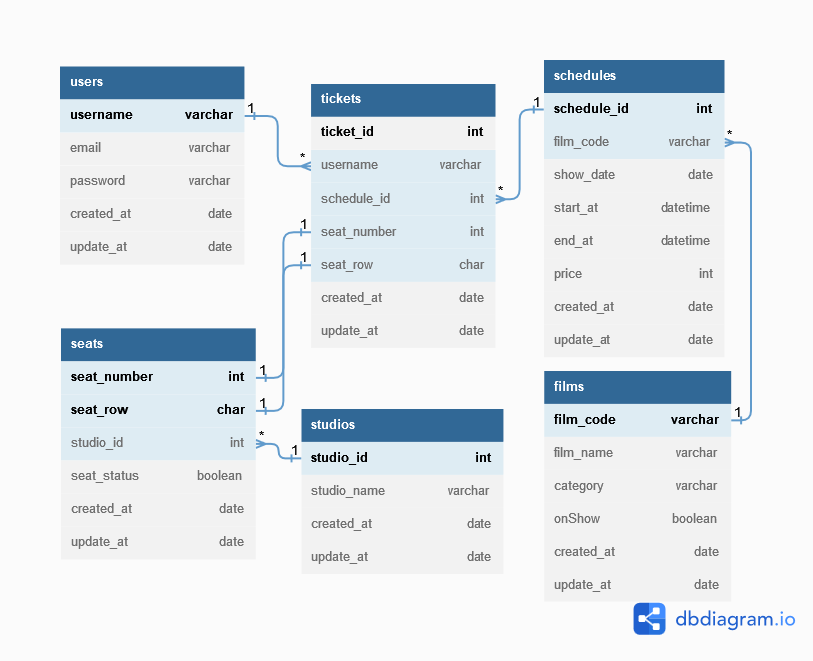
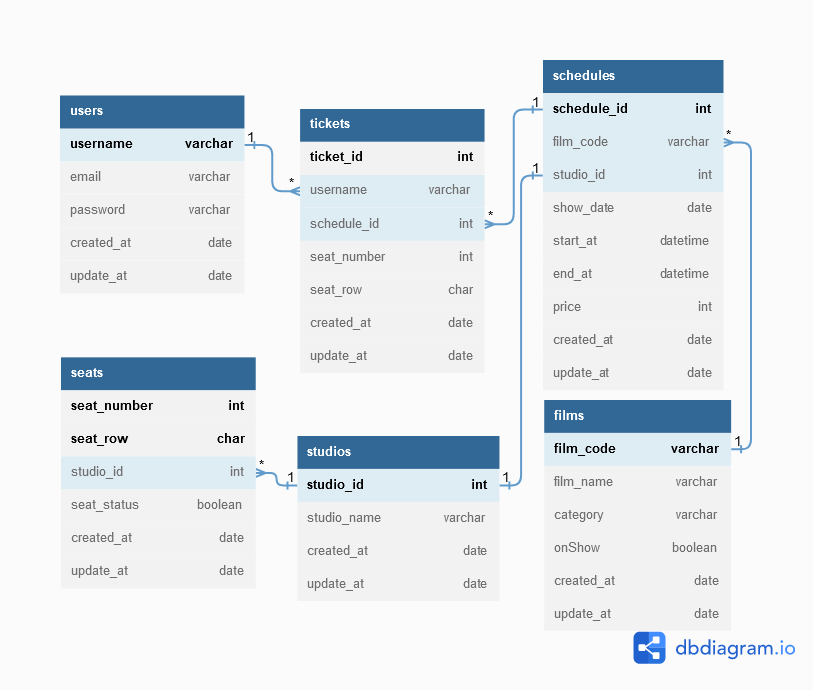
update

diff --git a/README.md b/README.md
@@ -7,12 +7,12 @@ User dapat memesan tiket lebih dari satu
 **Films One To Many Schedules**
 Film dapat memiliki lebih dari satu jadwal penayangan
 <br>
-**Tickets Many To One Schedules**
-Lebih dari satu tiket bisa digunakan untuk menonton pada satu jadwal
+**Schedules One To One Studios**
+Satu jadwal hanya ditayangkan pada satu Studio
 <br>
 **Studios One To Many Seats**
 Studio memiliki lebih dari satu tempat duduk
 <br>
-**Tickets One To One Seats**
-Satu tiket hanya bisa digunakan untuk memesan satu tempat duduk
+**Tickets Many To One Schedules**
+Lebih dari satu tiket bisa digunakan untuk menonton pada satu jadwal
 
